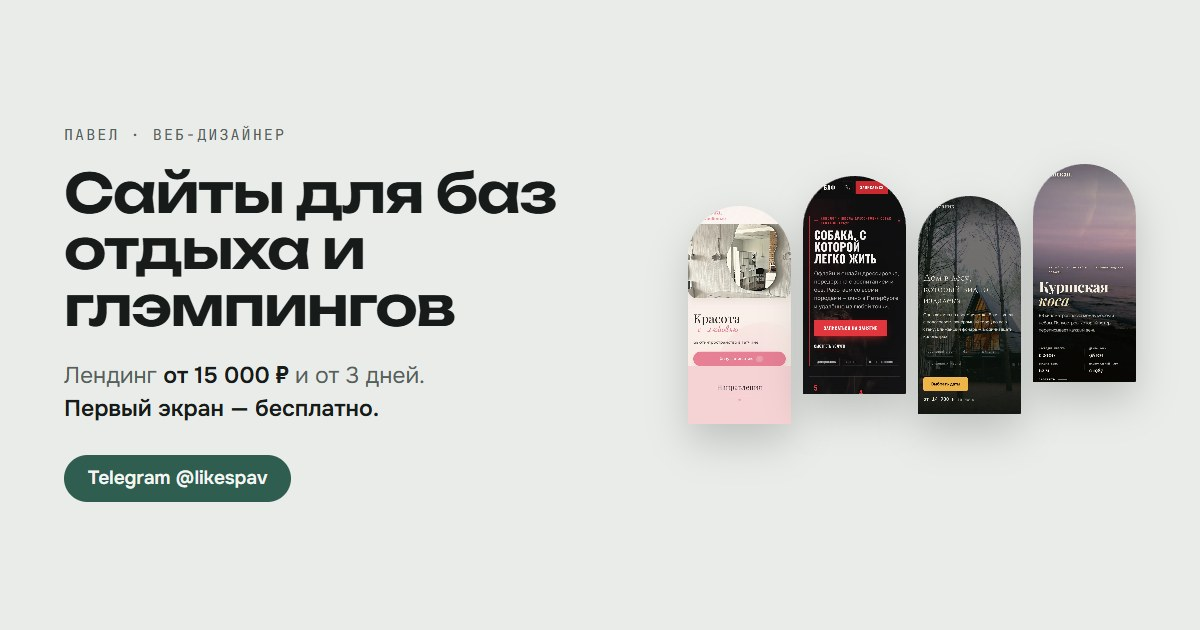
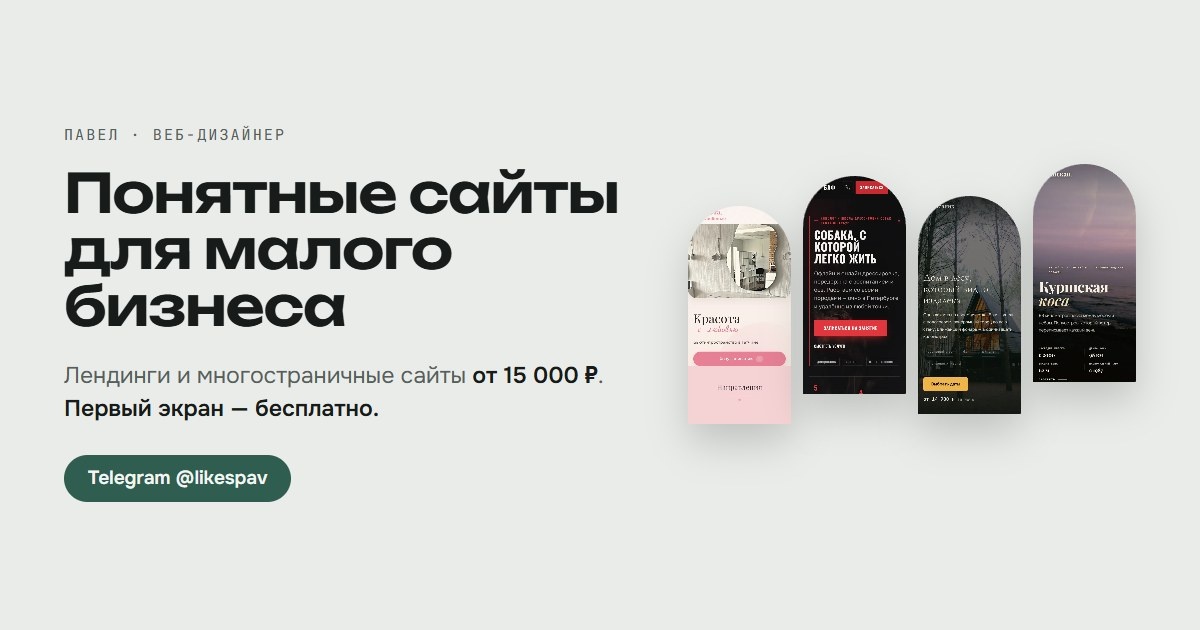
Портфолио: общий заголовок вместо «баз отдыха и глэмпингов»
Первый экран, title, описание и OG-превью теперь про понятные сайты
для малого бизнеса; тексты форматов и контактов — не только про места
отдыха.

Changed region(s): [[0.0308, 0.2714, 0.5242, 0.5429], [0.1233, 0.573, 0.4933, 0.6333]]

diff --git a/index.html b/index.html
@@ -3,11 +3,11 @@
 <head>
 <meta charset="utf-8">
 <meta name="viewport" content="width=device-width, initial-scale=1">
-<title>Павел — веб-дизайнер: сайты для баз отдыха и глэмпингов</title>
-<meta name="description" content="Делаю сайты для баз отдыха, глэмпингов и небольшого бизнеса. Лендинг от 15 000 ₽ и от 3 дней. Первый экран вашего сайта — бесплатно.">
+<title>Павел — веб-дизайнер: понятные сайты для малого бизнеса</title>
+<meta name="description" content="Лендинги и многостраничные сайты без конструктора для студий, школ, мест отдыха и другого малого бизнеса. От 15 000 ₽ и от 3 дней. Первый экран вашего сайта — бесплатно.">
 <meta property="og:type" content="website">
 <meta property="og:title" content="Павел — веб-дизайнер">
-<meta property="og:description" content="Сайты для баз отдыха, глэмпингов и небольшого бизнеса. Лендинг от 15 000 ₽, первый экран — бесплатно.">
+<meta property="og:description" content="Понятные сайты для малого бизнеса. От 15 000 ₽, первый экран — бесплатно.">
 <meta property="og:url" content="https://likes32.github.io/">
 <meta property="og:image" content="https://likes32.github.io/og.jpg">
 <meta property="og:image:width" content="1200">
@@ -206,8 +206,8 @@ h2{font:600 clamp(30px,4vw,56px)/1.05 var(--f-display);letter-spacing:-.02em}
     <div class="wrap">
       <div>
         <p class="mono">Веб-дизайн · сайты без конструктора</p>
-        <h1>Сайты для баз отдыха и глэмпингов</h1>
-        <p class="lead">И для студий, школ, всех, кому нужен понятный сайт. Лендинг — <b>от 15&nbsp;000&nbsp;₽</b> и от 3 дней. <b>Первый экран вашего сайта нарисую бесплатно</b> — после короткого брифа.</p>
+        <h1>Понятные сайты для малого бизнеса</h1>
+        <p class="lead">Лендинги и многостраничные сайты для студий, школ, мест отдыха — всех, кому нужен сайт, с которого легко записаться или купить. <b>От 15&nbsp;000&nbsp;₽</b> и от 3 дней. <b>Первый экран вашего сайта нарисую бесплатно</b> — после короткого брифа.</p>
         <div class="actions">
           <a class="btn btn--main" href="https://t.me/likespav" target="_blank" rel="noopener">Написать в Telegram</a>
           <a class="btn btn--ghost" href="#works">Смотреть работы ↓</a>
@@ -313,7 +313,7 @@ h2{font:600 clamp(30px,4vw,56px)/1.05 var(--f-display);letter-spacing:-.02em}
     <div class="wrap">
       <h2>Как работаю</h2>
       <ol class="steps">
-        <li><h3>Бриф</h3><p>3–4 вопроса о вашем месте и пара фото.</p></li>
+        <li><h3>Бриф</h3><p>3–4 вопроса о вашем деле и пара фото.</p></li>
         <li class="free"><h3>Первый экран — бесплатно</h3><p>Рисую первый экран вашего сайта. Не понравится — макет останется у вас.</p></li>
         <li><h3>Цена и срок</h3><p>Согласуем объём: от 15&nbsp;000&nbsp;₽, от 3 дней до 1,5 недель.</p></li>
         <li><h3>Сайт</h3><p>Делаю остальные блоки, правим по вашим замечаниям.</p></li>
@@ -326,8 +326,8 @@ h2{font:600 clamp(30px,4vw,56px)/1.05 var(--f-display);letter-spacing:-.02em}
     <div class="wrap">
       <h2>Три формата</h2>
       <div class="cards">
-        <article class="card"><h3>Лендинг-визитка</h3><p>Одна страница: дом или услуги, фото, цены, как добраться и кнопка «написать» или «забронировать».</p></article>
-        <article class="card"><h3>Многостраничный сайт</h3><p>Отдельные страницы под номера, услуги, цены и контакты — как у «Красоты с любовью».</p></article>
+        <article class="card"><h3>Лендинг-визитка</h3><p>Одна страница: услуги или товар, фото, цены, контакты и кнопка «записаться», «купить» или «забронировать».</p></article>
+        <article class="card"><h3>Многостраничный сайт</h3><p>Отдельные страницы под услуги, цены, команду и контакты — как у «Красоты с любовью».</p></article>
         <article class="card"><h3>Редизайн</h3><p>Сайт есть, но устарел или неудобен с телефона. Переделаю, сохранив то, что работает.</p></article>
       </div>
       <div class="price"><b>от 15&nbsp;000&nbsp;₽</b><span>Срок — от 3 дней до 1,5 недель. Точные цифры — после брифа.</span></div>
@@ -336,7 +336,7 @@ h2{font:600 clamp(30px,4vw,56px)/1.05 var(--f-display);letter-spacing:-.02em}
 
   <section class="contact" id="contact" data-theme="base">
     <div class="wrap">
-      <h2>Расскажите о своём месте — покажу, каким может быть его сайт</h2>
+      <h2>Расскажите о своём деле — покажу, каким может быть его сайт</h2>
       <p>Пишите в Telegram или ВКонтакте. Отвечу, пришлю бриф, и начнём с бесплатного первого экрана.</p>
       <div class="actions">
         <a class="btn btn--main" href="https://t.me/likespav" target="_blank" rel="noopener">Telegram @likespav</a>
